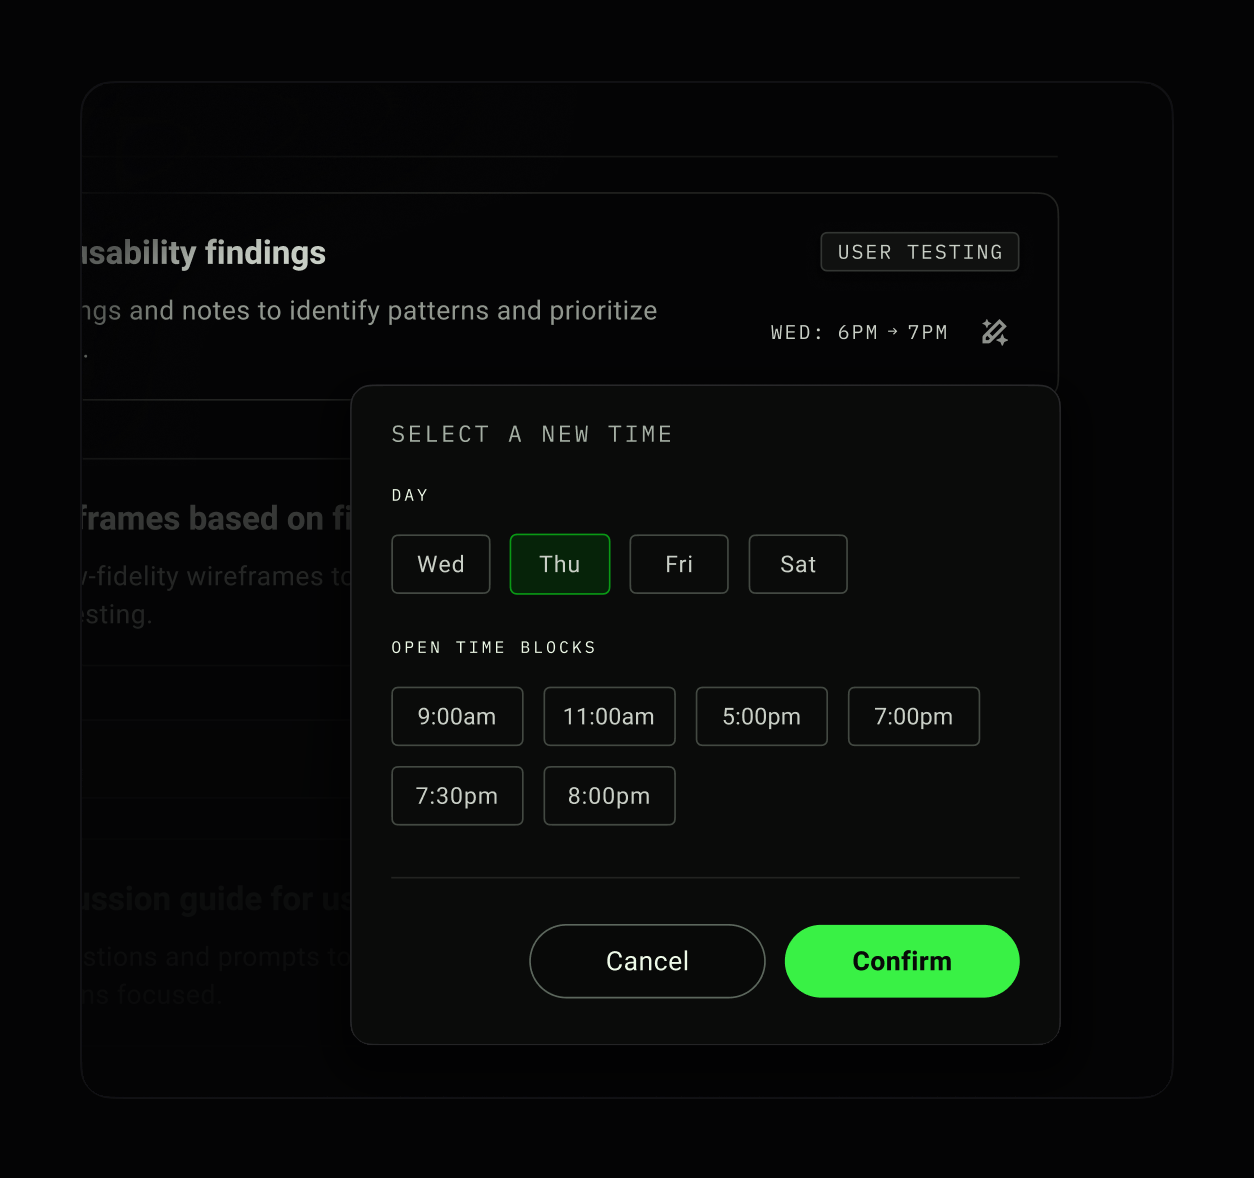
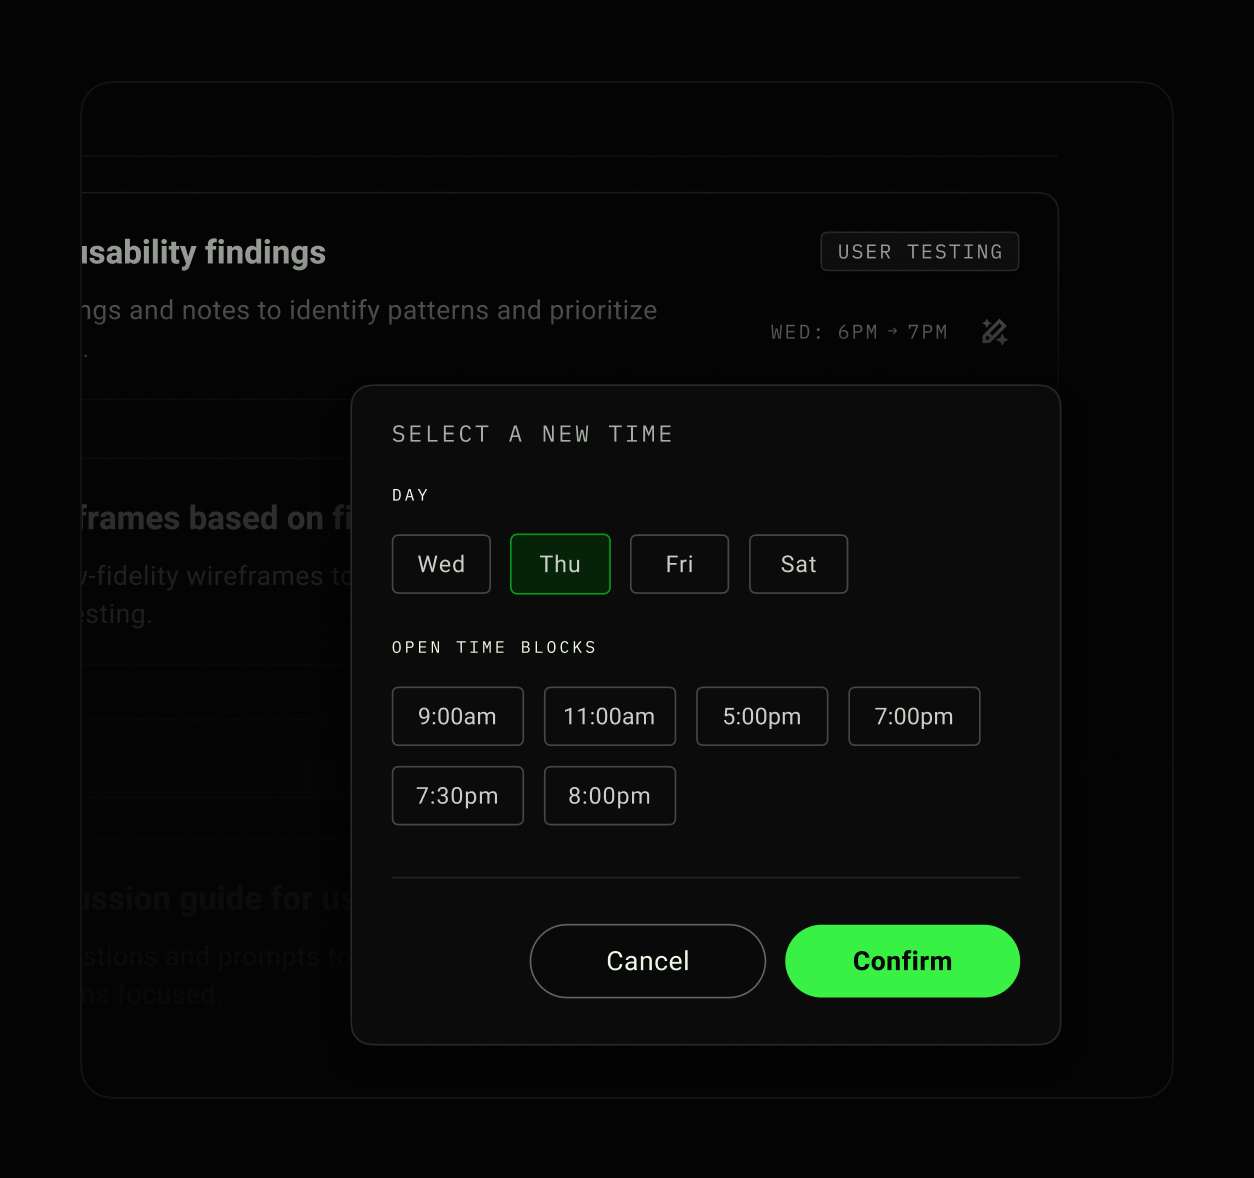
Rescheduling popover: use the 2x export of his fixed Figma frame (gradient fills the container)
Chadwick reset the dimming layer in 6331:24278 to fill the container and hug all four edges. The site
image is now a straight 2x export of that frame, replacing the earlier rebuild.

Claude-Session: https://claude.ai/code/session_01NtNprqKA11HBh4hJyZy5eV

diff --git a/reports/popover-shadow-2026-11-20/FINDINGS.md b/reports/popover-shadow-2026-11-20/FINDINGS.md
@@ -1,23 +1,20 @@
 # Rescheduling popover shadow (20 Nov)
 
 ## What the gradient is for
-It dims every other Action Item so only the one being rescheduled stays lit, which ties that card to
-the "Select a new time" popover hanging off its reschedule icon.
+It dims everything behind the "Select a new time" popover so the eye goes to the popover and the
+Action Item it belongs to.
 
 ## What was wrong
-Figma frame 6331:20607, group 6331:24278. Rectangle 2982 (6331:24376) is the dimming layer: #040405,
-vertical gradient 26% at its top edge, 74% at 53px, 100% at the bottom. Its top edge sat 87px into the
-illustration, halfway through the selected card ("Synthesize usability findings", 55 to 159px). So it:
-- cut the white title in half with a hard 26% step (title pixels 205 above, 154 below)
-- dimmed the description, the WED 6PM to 7PM time and the reschedule icon, the very card it should show.
-The same rectangle is in every CS frame (OLD 5763, NEW 6228, BACKUP 6297, most current 6331); the
-shipped image matched Figma exactly, so the site did not break it. The Figma frame has the same line.
-The product's own desktop screens (Home page 2474:7775 list view, 2882:34590 schedule view) were
-checked: neither has this gradient; the list view shows the popover hanging under its card.
+Figma frame 6331:20607, group 6331:24278. The dimming layer (Rectangle 2982, 6331:24376) started 87px
+down, halfway through the "Synthesize usability findings" card, with a hard 26% top edge. That cut the
+white title in half (title pixels 205 above the edge, 154 below). The shipped image matched Figma, so
+the build had not broken it.
 
-## Fix
-Rebuilt the image at 2x from Figma's own layers (tools/rebuild.py): the card list 6331:24279, then the
-gradient with Figma's colour and stops but starting at the selected card's bottom edge (159px) and
-fading in from 0%, then the popover's drop shadow from Figma's effect values, then the popover
-6331:24377. The frame border and corners come from the shipped export. Lossless webp, 1094 x 1018.
-Figma itself is not edited.
+## Fix (his, in Figma, 20 Nov)
+Chadwick reset the layer so it fills the container and hugs all four edges: 6331:24376 is now a vector
+at -4,-6, 550 x 530 over the 546 x 508 frame, same #040405 stops (26%, 74% at 12.2%, 100%) on a shifted
+transform, so the top of the frame starts at 26% with no edge inside the picture. The site image is now
+a straight 2x export of 6331:24278, lossless webp, 1094 x 1018. Title rows 160 to 188 run 153 to 140,
+a smooth fade with no step.
+
+An earlier rebuild in this branch (gradient starting under the card, made before his fix) is replaced.

diff --git a/reports/popover-shadow-2026-11-20/GATES.md b/reports/popover-shadow-2026-11-20/GATES.md
@@ -1,15 +1,10 @@
 # Gates: Rescheduling popover shadow (20 Nov)
 
-Task: the dark gradient behind the "Select a new time" popover leaves a line on "usability findings"
-and sits in the wrong place. Its job: dim every other Action Item so only the card being rescheduled
-shows (his words, 20 Nov).
-
 - [x] G1 Figma read: layers, gradient stops, blend and extent written in FINDINGS.md from the frame.
-- [x] G2 No line: the title "usability findings" has one brightness top to bottom (2x rows 160 to 188
-  all 204 in the new image; old dropped 205 to 154 at row 176).
-- [x] G3 Role: the whole selected card (title, description, time, icon) is undimmed and every other
-  card is dimmed. Checked by eye in before-after.png and the live shots.
-- [x] G4 Sharp at 2x: built from 2x Figma exports, lossless webp, 1094 x 1018 for a 547 x 509 slot.
+- [x] G2 No line: the "usability findings" title fades smoothly top to bottom (2x rows 160 to 188 run
+  153 to 140; the old image dropped 205 to 154 at row 176).
+- [x] G3 Matches his fixed Figma: the site image is a straight 2x export of 6331:24278 after his fix.
+- [x] G4 Sharp at 2x: 1094 x 1018 lossless webp for a 547 x 509 slot.
 - [x] G5 Breakpoints: live shots at 390, 768 and 1440, reduced motion on and off, in shots/. Layout unchanged.
 - [x] G6 Scope: only the image and this report folder change. No CSS, no HTML, no heading spacing.
-- [x] G7 Shipped: pushed, draft PR #29 into claude/relaxed-ride-5mlbdu, preview artifact https://claude.ai/artifact/7ygywsnJepVm6TmqR9eBew, lead told.
+- [x] G7 Shipped: pushed, draft PR #29 into claude/relaxed-ride-5mlbdu, preview artifact, lead told.
